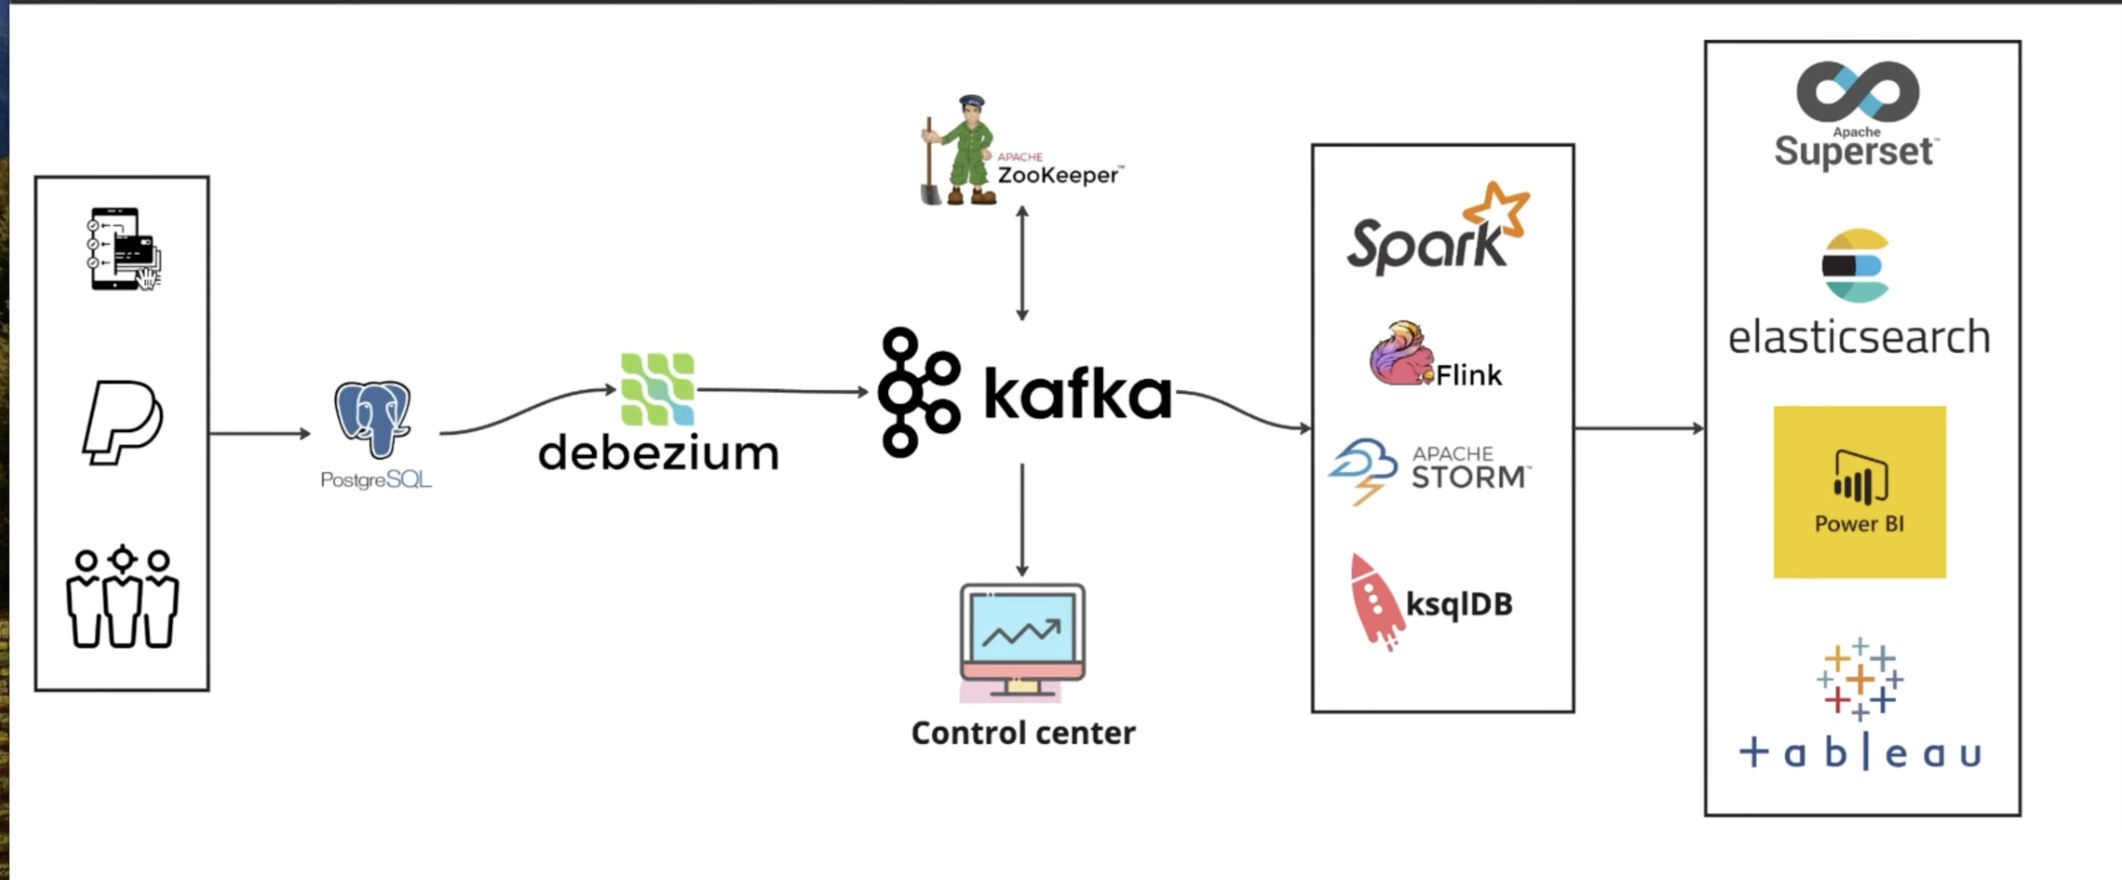
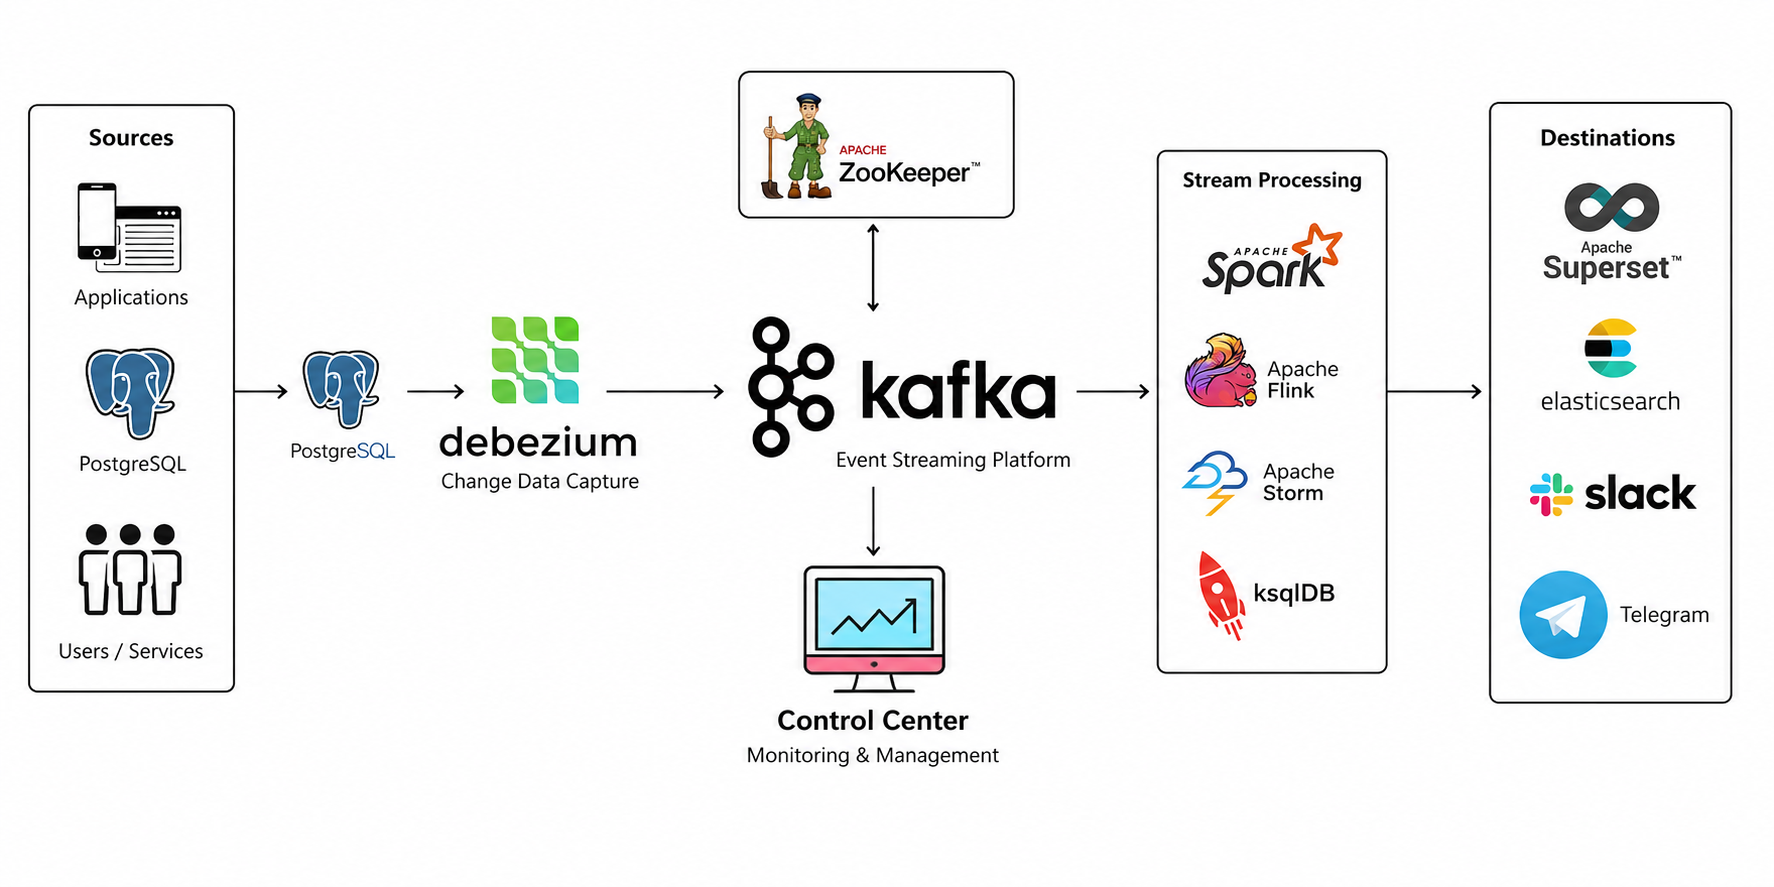
Use my own architecture diagram
Replaces the placeholder diagram with my own, and drops the credit
section that referenced it. All code and assets in this repo are mine.

diff --git a/README.md b/README.md
@@ -8,10 +8,7 @@ that is how the database survives a crash. Change Data Capture is the idea of
 reading that log and publishing it as a stream, so other systems learn about
 changes without polling the database or having the application dual-write.
 
-![CDC architecture: sources into PostgreSQL, Debezium reading the write-ahead log, Kafka as transport with ZooKeeper and a control centre, stream processing options, and BI and search sinks](architecture.png)
-
-<sub>Architecture diagram from
-<a href="https://github.com/airscholar/changecapture-e2e">airscholar/changecapture-e2e</a>.</sub>
+![CDC architecture: applications, PostgreSQL and users as sources; Debezium capturing changes from PostgreSQL; Kafka as the event streaming platform with ZooKeeper and a control centre for monitoring; Spark, Flink, Storm and ksqlDB as stream processing options; Superset, Elasticsearch, Slack and Telegram as destinations](architecture.png)
 
 ## Stack
 
@@ -83,13 +80,6 @@ shows how much WAL each slot is pinning:
 ```
 
 `make reset` tears the volumes down, which is the clean way to drop the slot.
-
-## Credit
-
-The stack and architecture here follow the pattern in
-[airscholar/changecapture-e2e](https://github.com/airscholar/changecapture-e2e),
-which is what got me interested in doing this properly. The code in this repo is
-my own implementation.
 
 ## Licence
 
